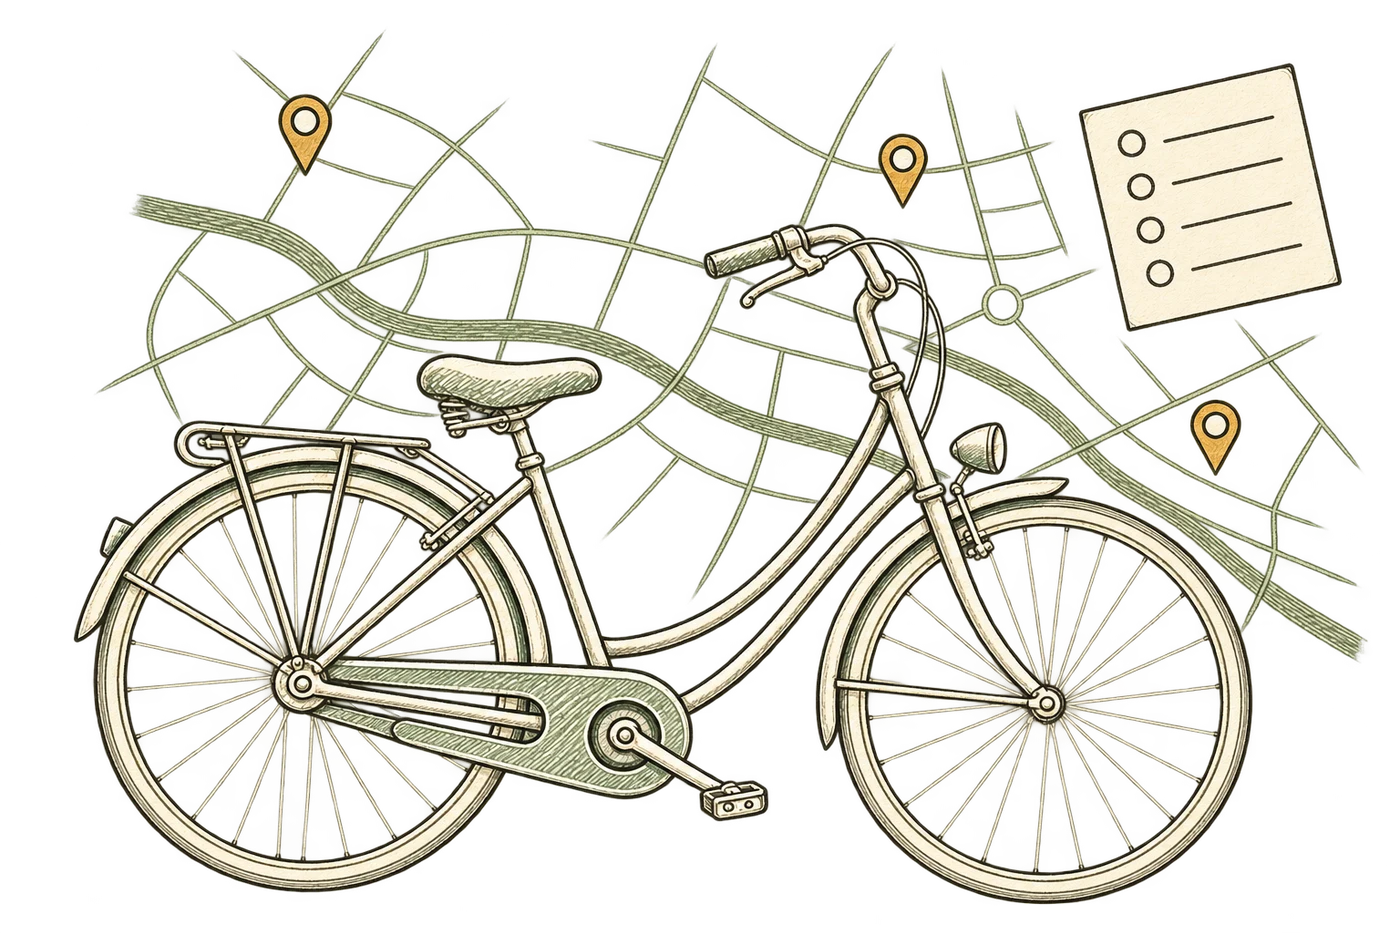
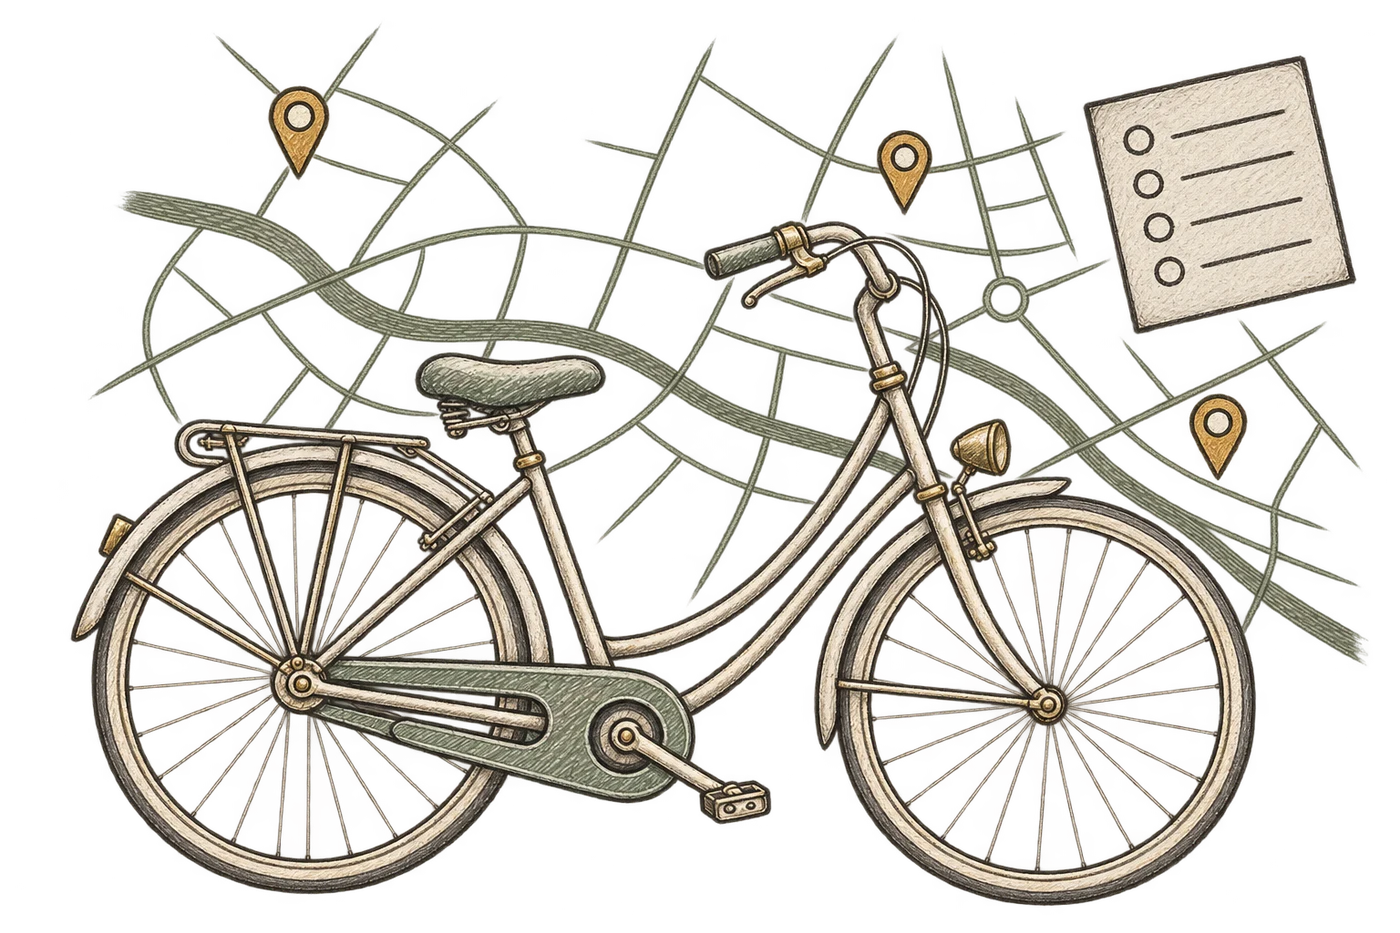
fix: balance dark palette and soften project artwork

diff --git a/src/styles.css b/src/styles.css
@@ -28,17 +28,17 @@
   color-scheme: dark;
   --paper: #1a1717;
   --outside: #141212;
-  --ink: #f1eadb;
-  --muted: #bfc6b8;
-  --rule: #697368;
-  --rule-soft: #414e46;
-  --accent: #e8b768;
-  --link: #e8b768;
-  --link-rule: #a98a53;
-  --wash: #25332d;
-  --plot-dot: #aec88b;
-  --plot-line: #e8b768;
-  --focus: #edc485;
+  --ink: #eeebe6;
+  --muted: #b9b4ae;
+  --rule: #6c6560;
+  --rule-soft: #3d3835;
+  --accent: #d7af6f;
+  --link: #d7af6f;
+  --link-rule: #927548;
+  --wash: #252120;
+  --plot-dot: #93a38b;
+  --plot-line: #d7af6f;
+  --focus: #e2c28f;
 }
 * { box-sizing: border-box; }
 body { margin: 0; min-width: 320px; -webkit-font-smoothing: antialiased; }

diff --git a/docs/dark-art-refinement.md b/docs/dark-art-refinement.md
@@ -1,0 +1,30 @@
+# Dark artwork refinement
+
+12 October 2026. Mode: built-in image generation, style-transfer edits with transparent backgrounds. User approved softer project artwork to match the existing hero.
+
+Only the dark PoseMan and Dublin Bikes variants were replaced. Light artwork and the hero/books scenes remain unchanged. PNG masters retain generated alpha; WebP delivery copies use 1400px maximum width, quality 88, alpha quality 100.
+
+## poseman-dark
+
+Saved master: `public/art/poseman-dark.png`
+
+Delivery: `public/art/poseman-dark.webp`
+
+Input 1: previous version of the same dark PNG at commit 2474d4b. Input 2: `public/art/hero-dark.png`, used only for style.
+
+Final prompt:
+
+> Use case: style-transfer. Asset: transparent illustration for a dark personal portfolio. Image 1 is the edit target. Image 2 is a STYLE reference only: match its soft hand-shaded pencil texture and restrained, tactile colors. Preserve target subject, positions, framing, scale, aspect ratio and transparent background. Change only illustration treatment and palette. The website behind this asset is #1A1717 (do not paint that background). Use soft neutral ivory-gray #C4BFB6 for principal pencil strokes, graphite shadow #34312F, restrained antique gold #D7AF6F for small highlights and muted sage #879583 for a few secondary details. Lower brightness of the existing near-white outlines; avoid green-yellow tinted whites. Natural broken pencil marks, subtle pressure variation and cross-hatching, never crisp neon blueprint lines. Background must be genuine transparency, no opaque backdrop, no glow or halo, no added captions or border. Keep exactly the three overlapping software windows, the jointed pose skeleton, two sliders and small graph. Retain thin legible skeleton connections and gold joint points. The windows have a dark graphite fill with a faint green undertone and hand-shaded surface, like the cube in image 2. Do not include the cube, pencil or text from image 2.
+
+## bikes-dark
+
+Saved master: `public/art/bikes-dark.png`
+
+Delivery: `public/art/bikes-dark.webp`
+
+Input 1: previous version of the same dark PNG at commit 2474d4b. Input 2: `public/art/hero-dark.png`, used only for style.
+
+Final prompt:
+
+> Use case: style-transfer. Asset: transparent illustration for a dark personal portfolio. Image 1 is the edit target. Image 2 is a STYLE reference only: match its soft hand-shaded pencil texture and restrained, tactile colors. Preserve target subject, positions, framing, scale, aspect ratio and transparent background. Change only illustration treatment and palette. The website behind this asset is #1A1717 (do not paint that background). Use soft neutral ivory-gray #C4BFB6 for principal pencil strokes, graphite shadow #34312F, restrained antique gold #D7AF6F for small highlights and muted sage #879583 for a few secondary details. Lower brightness of the existing near-white outlines; avoid green-yellow tinted whites. Natural broken pencil marks, subtle pressure variation and cross-hatching, never crisp neon blueprint lines. Background must be genuine transparency, no opaque backdrop, no glow or halo, no added captions or border. Keep exactly the bicycle, street map behind it, three gold map pins and the small checklist in the upper right. Soften the bicycle's bright white contours into shaded neutral-gray/ivory pencil, with darker gray form shading. Reduce the map's green brightness; it should be a faint desaturated sage supporting layer. Checklist paper should be softly shaded pale gray, not bright yellow-white. Do not include the cube, pencil or text from image 2.
+

diff --git a/DESIGN_SYSTEM.md b/DESIGN_SYSTEM.md
@@ -6,7 +6,7 @@ A personal portfolio with room to grow into a lab and a shelf of useful products
 
 - Layout: `docs/references/selected-layout.png` (the user's selected illustrated folio).
 - Light: **black and white**, explicitly confirmed on 12 October 2026. White paper, black typography, graphite artwork; no pastel accents.
-- Dark: `docs/references/dark-green-gold.png`, supplied on 12 October 2026. The user subsequently refined the page background to warm near-black `#1A1717`; keep warm ivory, muted sage, and gold.
+- Dark: `docs/references/dark-green-gold.png`, supplied on 12 October 2026. The user subsequently refined the page background to warm near-black `#1A1717`, then approved neutral off-white text and gray dividers, with muted sage and gold reserved for accents.
 - First-time visitors start in light mode. Remember an explicit theme choice; do not follow system appearance.
 - These are two themes of one site. Navigation, order, proportions, and content stay the same.
 
@@ -28,13 +28,15 @@ Use a centered page frame, fine rules, open space, and editorial columns. Avoid 
 
 Light tokens: white `#ffffff`, ink `#191919`, secondary copy `#626262`, rule `#777777`. Every visible image is grayscale in light mode.
 
-Dark tokens: near-black `#1a1717`, ivory `#f1eadb`, secondary copy `#bfc6b8`, gold `#e8b768`, sage chart points `#aec88b`. Gold guides actions and highlights; it is not a background for every component.
+Dark tokens: near-black `#1a1717`, off-white `#eeebe6`, secondary copy `#b9b4ae`, rule `#6c6560`, gold `#d7af6f`, sage chart points `#93a38b`. Supporting surfaces use neutral warm gray `#252120`. Gold guides actions and highlights; sage belongs in small illustrative and chart details. Keep text and structural rules free of a green or yellow cast.
 
 All tokens live in `src/styles.css`. Change a theme at that boundary, not in individual components.
 
 ## Artwork
 
 Generate illustrations as separate raster assets. Preserve generous transparent margins, natural graphite strokes, readable silhouettes, and a consistent pencil hand. Use the same scene in both themes; use dedicated dark variants when a simple tonal adjustment would make paper look like a negative.
+
+Dark project illustrations use broken pencil contours and hand shading, consistent with the hero. Avoid bright, uniform cream outlines or a neon blueprint effect. The October palette refinement's prompts and source assets are documented in `docs/dark-art-refinement.md`.
 
 The text, page layout, navigation, and chart remain real UI. Do not bake them into a page-sized image. Small handwritten labels that are part of the drawing may stay inside the artwork.
 

diff --git a/design-qa.md b/design-qa.md
@@ -1,5 +1,20 @@
 # MVP design and functional verification
 
+## Dark palette refinement — 12 October 2026
+
+**Final result: passed.** Focused local visual check at `http://127.0.0.1:4187/`, using the built production output.
+
+- Source: approved Illustrated Folio composition and the user's subsequent `#1A1717` override. Before: `docs/qa/palette-dark-before.png` (live homepage, 1280 × 1957). After: `docs/qa/palette-dark-desktop.png` (1280 × 1957). Reviewed both images together; this is a palette/art-treatment change, not a pixel-identical recreation of the earlier green-background reference.
+- Preserved typography, spacing, component geometry, hierarchy, copy, and interactions. Replaced yellowish text with neutral off-white, green-tinted rules with warm gray, and bright yellow-green project contours with shaded pencil strokes. The hero is the artwork style reference.
+- First pass used `#625c57` rules. Raised these to `#6c6560` because the same token draws slider tracks; calculated contrast against the page is now 3.11:1. Off-white type is 14.98:1, secondary type 8.65:1, and gold links 8.70:1. These are token contrast checks, not a claim of a full accessibility audit.
+- Both project PNG masters have genuine transparent alpha and matching 1536 × 1024 dimensions; optimized WebP copies load successfully. No opaque rectangular backdrops or visible edge halos on the page.
+- Desktop 1280px and mobile 390px in both themes: no horizontal overflow, readable headings, clear links and chart controls. Dark state survives reload. Fresh local page opened in light; the theme toggle correctly selects the appropriate four artwork files. Light tokens, assets, layout and default-theme logic are unchanged.
+- `npm run build` passes. Browser error/warning log is empty for this verification. No outstanding visual defects found in the scoped change.
+
+Evidence: `docs/qa/palette-dark-desktop.png`, `docs/qa/palette-dark-mobile.png`, `docs/qa/palette-light-desktop.png`, `docs/qa/palette-light-mobile.png`. Prompts and asset paths: `docs/dark-art-refinement.md`.
+
+## Original MVP verification
+
 Date: 12 October 2026. Local production build at `http://127.0.0.1:4176/`.
 
 **Local result: passed.** Deployment is checked separately after publishing.

diff --git a/AGENTS.md b/AGENTS.md
@@ -24,3 +24,5 @@ Build app UI in `src/`. Keep `.openai/hosting.json`, `worker/index.js`, `scripts
 - Editorial direction (2026-10-12): curate like a marketing team; include only what helps a visitor understand Sachin. Do not dump the CV, every project, or the full LinkedIn profile. Lead with Founding Engineer at Protex AI (confirmed on the signed-in profile), then selected personal work.
 
 - Default theme (2026-10-12): first-time visitors start in light mode, regardless of system appearance. Persist an explicitly selected light or dark theme; do not automatically follow OS theme changes.
+
+- Approved dark palette correction (2026-10-12): retain `#1A1717`, use neutral off-white type and warm-gray secondary text/dividers. Reserve muted gold for actions and sage for small illustration/chart details. Project artwork should share the hero's soft shaded pencil texture, without bright yellow-green contours. This supersedes the earlier cream/green-tinted neutral tokens.
